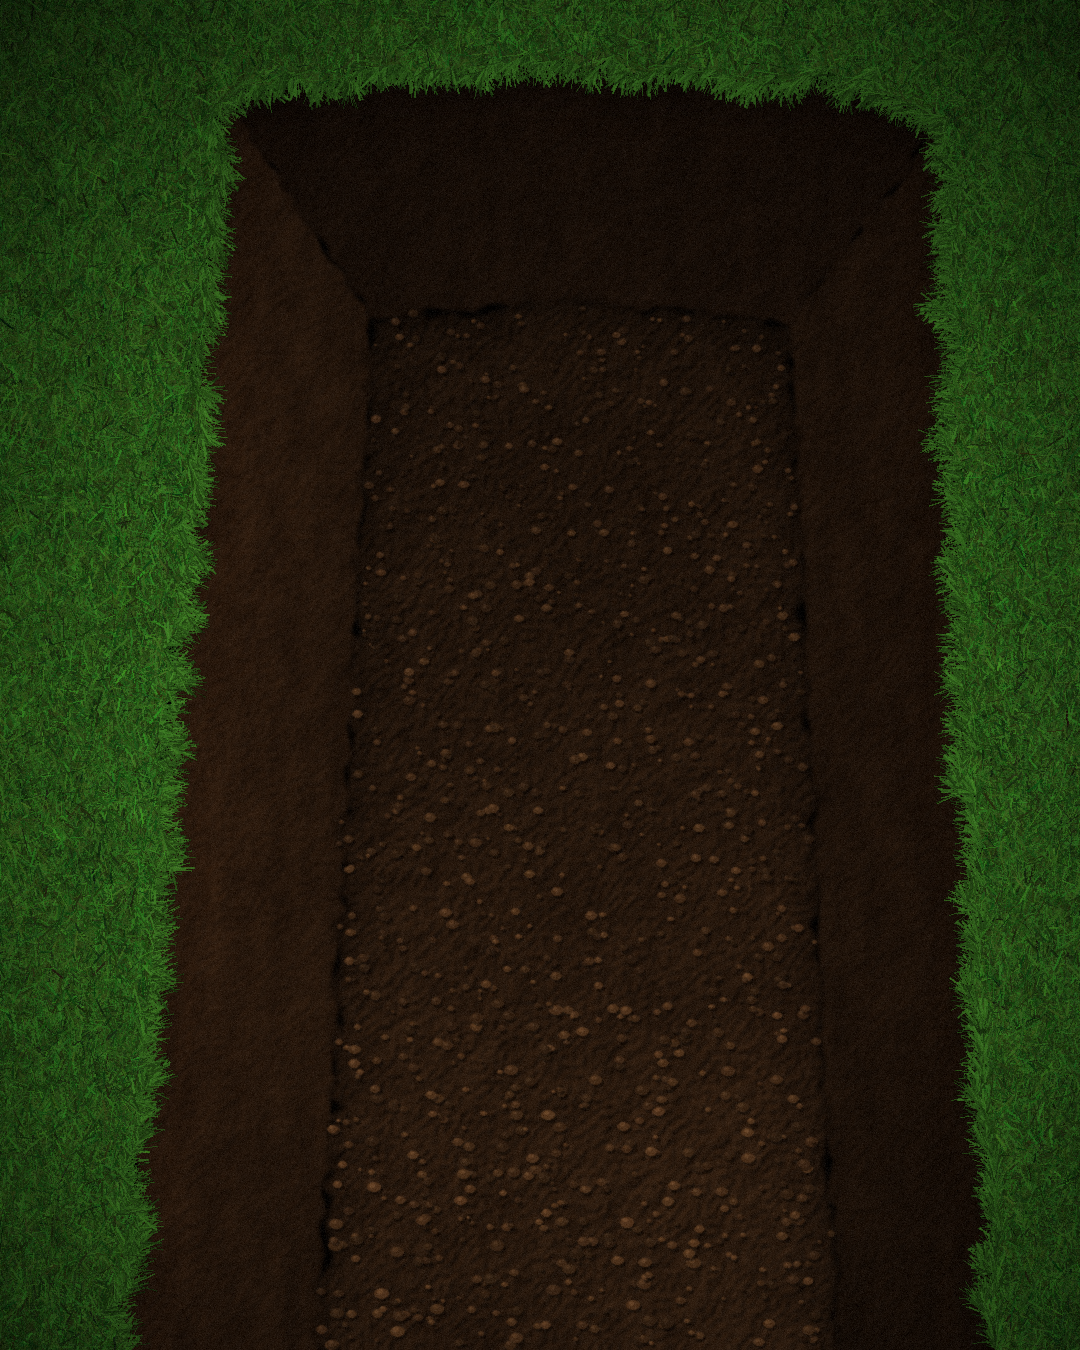
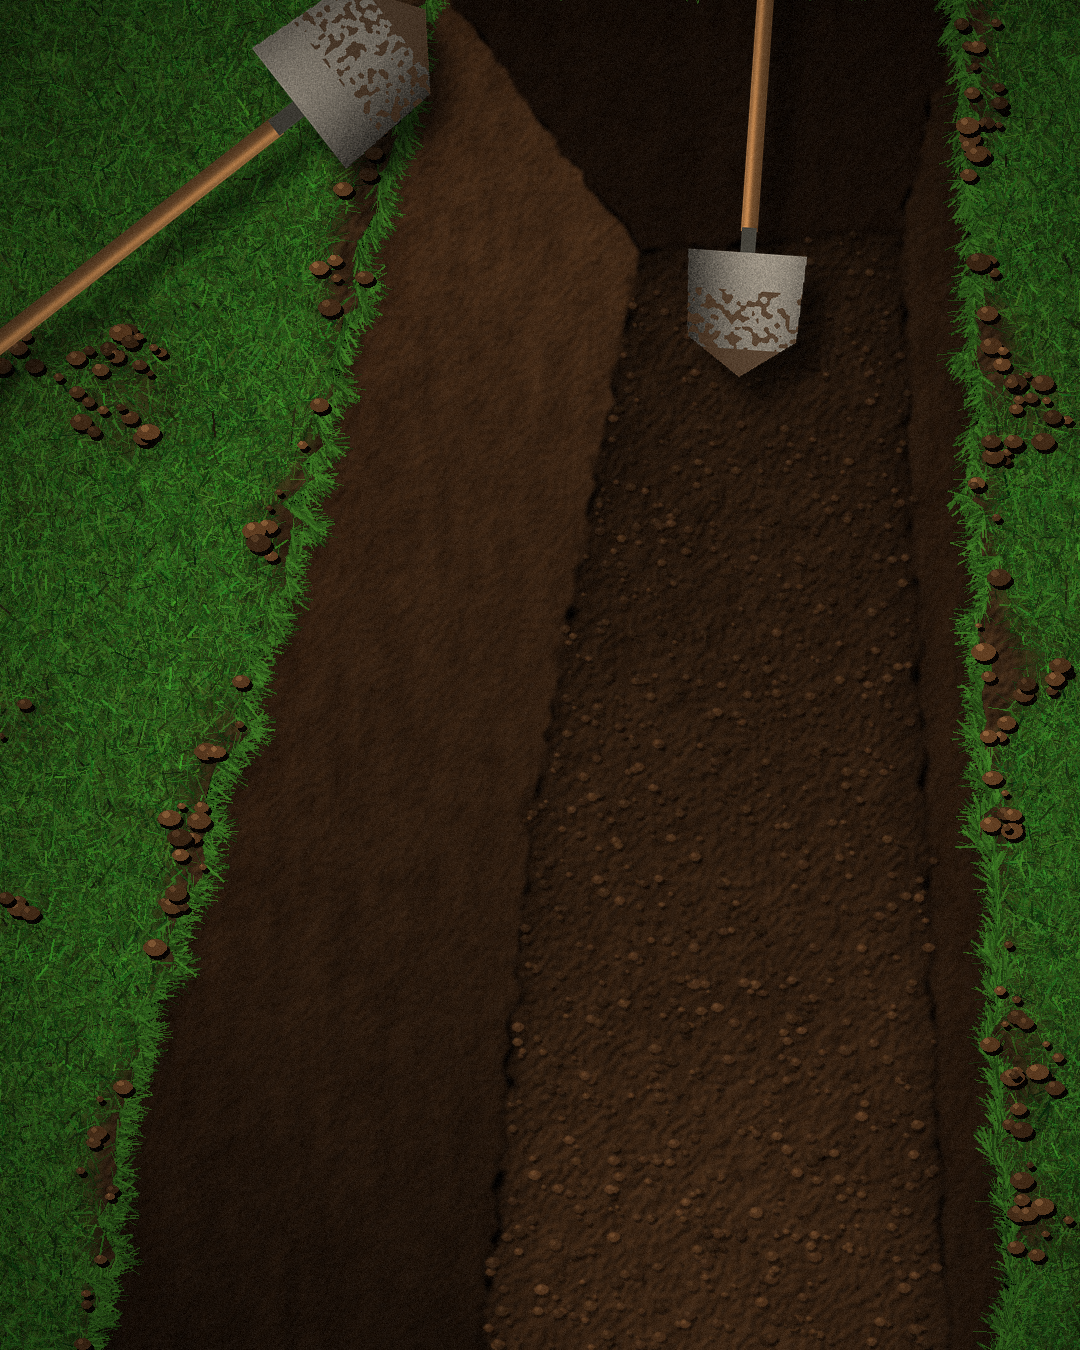
Remember carousel: the grave seen at an angle as in the owner's reference, muddy patchy grass, two shovels
Claude-Session: https://claude.ai/code/session_012WUx5AxZX2Tgox72zgHa7p

diff --git a/brag-quiz/remember_grave.py b/brag-quiz/remember_grave.py
@@ -36,13 +36,13 @@ def mask(poly, blur=0):
 def colorize(v, dark, light):
     v = v[..., None]; return np.array(dark) * (1 - v) + np.array(light) * v
 
-# the pit: its opening, the floor seen far below, the walls between them (the near end runs off the bottom of the frame)
-OPEN = [(222, 92), (520, 62), (860, 80), (944, 118), (996, 1350), (118, 1350)]
-FLOOR = [(372, 318), (560, 302), (790, 322), (838, 1350), (318, 1350)]
-LEFTW = [(222, 92), (372, 318), (318, 1350), (118, 1350)]
-RIGHTW = [(944, 118), (790, 322), (838, 1350), (996, 1350)]
-FARW = [(222, 92), (520, 62), (860, 80), (944, 118), (790, 322), (560, 302), (372, 318)]
-
+# the pit, seen from above at an angle (owner's reference): turf top left, the pit running off to the right and the bottom, its long side
+# wall lit and going down from the rim, the far wall at the top, the floor below
+OPEN = [(430, -30), (960, -30), (1010, 1380), (90, 1380), (120, 1120), (230, 760), (340, 360)]
+FLOOR = [(640, 250), (900, 232), (950, 1380), (480, 1380), (530, 820)]
+LEFTW = [(430, -30), (640, 250), (530, 820), (480, 1380), (90, 1380), (120, 1120), (230, 760), (340, 360)]
+RIGHTW = [(960, -30), (1010, 1380), (950, 1380), (900, 232)]
+FARW = [(430, -30), (960, -30), (900, 232), (640, 250)]
 def jag(poly, amp=7, step=14, seed=11):   # dug edges are never straight
     r = np.random.default_rng(seed); out = []
     for (x0, y0), (x1, y1) in zip(poly, poly[1:] + poly[:1]):
@@ -60,17 +60,17 @@ img = np.zeros((H, W, 3))
 # floor: loose, crumbly, lit from above, lighter towards us
 hf = 0.35 * base + 0.35 * fine + 0.3 * fine2
 sf = lit(hf, 9) * 0.75 + 0.25
-floor = colorize(np.clip(0.2 + 0.55 * hf, 0, 1), (30, 18, 10), (98, 66, 40)) * sf[..., None] * (0.55 + 0.45 * yy[..., None])
+floor = colorize(np.clip(0.2 + 0.55 * hf, 0, 1), (40, 25, 14), (120, 82, 50)) * sf[..., None] * (0.55 + 0.45 * yy[..., None])
 # walls: scraped in vertical strokes by the spade, darker deeper in, the right wall in shade
 hw = 0.4 * streak + 0.3 * fine + 0.2 * fine2 + 0.1 * base
 sw = lit(hw, 7) * 0.7 + 0.3
-wallL = colorize(np.clip(0.2 + 0.55 * hw, 0, 1), (34, 20, 11), (118, 78, 46)) * sw[..., None]
+wallL = colorize(np.clip(0.2 + 0.55 * hw, 0, 1), (52, 32, 18), (150, 102, 62)) * sw[..., None]
 wallR = wallL * 0.55
 xs = np.linspace(0, 1, W)[None, :] * np.ones((H, 1))
 farw = colorize(np.clip(0.2 + 0.5 * hw, 0, 1), (20, 12, 7), (70, 46, 28)) * sw[..., None] * 0.8
 mL, mR, mF, mFar = mask(LEFTW, 2), mask(RIGHTW, 2), mask(FLOOR, 3), mask(FARW, 2)
 img = floor * mF[..., None]
-img = img * (1 - mL[..., None]) + wallL * (0.5 + 0.5 * (1 - (xs * 2.2).clip(0, 1)))[..., None] * mL[..., None]
+img = img * (1 - mL[..., None]) + wallL * (0.95 - 0.55 * yy)[..., None] * mL[..., None]
 img = img * (1 - mR[..., None]) + wallR * mR[..., None]
 img = img * (1 - mFar[..., None]) + farw * mFar[..., None]
 # the floor in the walls' shadow along its edges (contact shadow), and dark where it meets the far wall
@@ -82,7 +82,7 @@ img = img * (1 - 0.55 * ao * mF)[..., None]
 # crumbs and clods on the floor: each lit from the top left, with its own shadow
 cr = Image.fromarray(np.clip(img, 0, 255).astype(np.uint8)); cd = ImageDraw.Draw(cr, "RGBA"); fl = Image.fromarray((mF * 255).astype(np.uint8))
 for _ in range(1400):
-    x, y = rng.uniform(300, 860), rng.uniform(300, 1350)
+    x, y = rng.uniform(470, 960), rng.uniform(220, 1350)
     if fl.getpixel((int(min(W - 1, x)), int(min(H - 1, y)))) < 200: continue
     s0 = rng.uniform(1.5, 6) * (0.6 + 0.6 * y / H); v = rng.uniform(0.5, 1.0) * (0.5 + 0.4 * y / H)
     cd.ellipse([x - s0 + 2, y - s0 * 0.7 + 3, x + s0 + 2, y + s0 * 0.7 + 3], fill=(10, 6, 3, 120))
@@ -93,14 +93,22 @@ img = np.asarray(cr.filter(ImageFilter.GaussianBlur(0.7)), float)
 mOpen = mask(OPEN)
 g0 = noise(60, seed=5); g1 = noise(8, octaves=3, seed=6)
 turf = colorize(np.clip(0.3 * g0 + 0.7 * g1, 0, 1), (22, 48, 14), (78, 120, 40))
+# the spoil from the dig: mud trodden into the grass along the rim and in patches, darker and wetter where it's thick
+near = np.asarray(Image.fromarray((mOpen * 255).astype(np.uint8)).filter(ImageFilter.GaussianBlur(55)), float) / 255
+mud = np.clip((near * 2.8 - 0.25) + (noise(90, seed=21) - 0.62) * 2.2, 0, 1) * (1 - mOpen)
+mud = np.clip(mud + np.clip((noise(110, seed=22) - 0.6) * 4, 0, 0.9), 0, 1) * (1 - mOpen)
+mudc = colorize(np.clip(0.3 * noise(30, seed=23) + 0.5 * fine + 0.2 * fine2, 0, 1), (34, 22, 12), (104, 74, 46)) * (lit(0.5 * fine + 0.5 * fine2, 8) * 0.6 + 0.4)[..., None]
+turf = turf * (1 - mud[..., None]) + mudc * mud[..., None]
 img = img * mOpen[..., None] + turf * (1 - mOpen[..., None])
+MUD = Image.fromarray((mud * 255).astype(np.uint8))
 im = Image.fromarray(np.clip(img, 0, 255).astype(np.uint8)).convert("RGBA")
 blades = Image.new("RGBA", (W, H), (0, 0, 0, 0)); d = ImageDraw.Draw(blades)
 inside = Image.fromarray((mOpen * 255).astype(np.uint8))
 for _ in range(230000):
     x, y = rng.uniform(-10, W + 10), rng.uniform(-10, H + 10)
-    if inside.getpixel((min(W - 1, max(0, int(x))), min(H - 1, max(0, int(y))))) > 128: continue
-    a = rng.normal(-1.57, 0.9); L = rng.uniform(6, 20); g = rng.uniform(0.4, 1.25)
+    px = (min(W - 1, max(0, int(x))), min(H - 1, max(0, int(y))))
+    if inside.getpixel(px) > 128 or rng.random() < MUD.getpixel(px) / 255 * 1.1: continue     # no grass where the mud lies
+    a = rng.normal(-1.57, 1.1); L = rng.uniform(5, 24); g = rng.uniform(0.35, 1.3) * (0.75 if rng.random() < 0.15 else 1)
     c = (int(np.clip(50 * g + rng.normal(0, 8), 0, 255)), int(np.clip(112 * g + rng.normal(0, 12), 0, 255)), int(np.clip(34 * g, 0, 255)), int(rng.uniform(150, 255)))
     d.line([(x, y), (x + L * np.cos(a), y + L * np.sin(a))], fill=c, width=1 if rng.random() < 0.7 else 2)
 # blades hanging over the rim, into the pit, and the rim's shadow on the walls
@@ -108,7 +116,7 @@ rim = []
 for (x0, y0), (x1, y1) in zip(OPEN, OPEN[1:] + OPEN[:1]):
     if y0 >= 1349 and y1 >= 1349: continue
     for t in np.linspace(0, 1, int(np.hypot(x1 - x0, y1 - y0) / 1.2)): rim.append((x0 + (x1 - x0) * t, y0 + (y1 - y0) * t))
-cx = sum(p[0] for p in OPEN) / len(OPEN); cy = 600
+cx, cy = 900, 700
 for x, y in rim:
     for _ in range(3):
         a = np.arctan2(cy - y, cx - x) + rng.normal(0, 0.6); L = rng.uniform(8, 26); g = rng.uniform(0.5, 1.2)
@@ -120,9 +128,46 @@ sh = np.asarray(shadow, float) / 255 * mOpen
 base_rgb = np.asarray(im.convert("RGB"), float) * (1 - 0.6 * sh)[..., None]
 im = Image.fromarray(np.clip(base_rgb, 0, 255).astype(np.uint8)).convert("RGBA")
 im = Image.alpha_composite(im, blades.filter(ImageFilter.GaussianBlur(0.4)))
+# clods of the spoil lying on the grass, then the two shovels: one dropped on the turf, one stuck upright in the floor of the pit
+cd = ImageDraw.Draw(im, "RGBA")
+for _ in range(2600):
+    x, y = rng.uniform(0, 1080), rng.uniform(0, 1350)
+    if MUD.getpixel((int(min(W - 1, x)), int(min(H - 1, y)))) < 90: continue
+    s0 = rng.uniform(3, 12); v = rng.uniform(0.6, 1.1)
+    cd.ellipse([x - s0 + 3, y - s0 * .7 + 4, x + s0 + 3, y + s0 * .7 + 4], fill=(8, 5, 2, 130))
+    cd.ellipse([x - s0, y - s0 * .7, x + s0, y + s0 * .7], fill=(int(92 * v), int(62 * v), int(36 * v), 255))
+    cd.ellipse([x - s0 * .6, y - s0 * .6, x, y - s0 * .1], fill=(int(130 * v), int(92 * v), int(58 * v), 150))
+def shovel(L, angle, at, blade_down=True, scale=1.0):
+    """a long-handled shovel drawn on its own layer, rotated and placed: wood with a highlight, a dark D-grip, a steel blade with dirt on it"""
+    w, h = int(300 * scale), int(L * scale) + int(300 * scale); lay = Image.new("RGBA", (w, h), (0, 0, 0, 0)); g = ImageDraw.Draw(lay)
+    cx = w // 2; hw = max(7, int(13 * scale)); top = int(110 * scale); bot = int(L * scale)
+    for i in range(-hw, hw + 1):                                     # the handle, lit along one side
+        t = (i + hw) / (2 * hw); c = int(150 + 70 * np.exp(-((t - 0.3) / 0.18) ** 2) - 60 * t)
+        g.line([(cx + i, top), (cx + i, bot)], fill=(c, int(c * 0.72), int(c * 0.45), 255))
+    gr = int(46 * scale); g.rounded_rectangle([cx - gr, top - int(70 * scale), cx + gr, top + int(6 * scale)], radius=int(18 * scale), outline=(28, 28, 28, 255), width=max(6, int(12 * scale)))
+    g.rectangle([cx - int(12 * scale), bot - int(6 * scale), cx + int(12 * scale), bot + int(40 * scale)], fill=(70, 70, 66, 255))
+    bw, bh = int(96 * scale), int(200 * scale); y0 = bot + int(36 * scale)
+    blade = [(cx - bw, y0), (cx + bw, y0), (cx + int(bw * .92), y0 + int(bh * .7)), (cx, y0 + bh), (cx - int(bw * .92), y0 + int(bh * .7))]
+    bm = Image.new("L", lay.size, 0); ImageDraw.Draw(bm).polygon(blade, fill=255)
+    yy2, xx2 = np.mgrid[0:lay.size[1], 0:lay.size[0]]
+    steel = 92 + 62 * np.cos((xx2 - cx) / bw * 1.6 - 0.5) - 30 * ((yy2 - y0) / bh).clip(0, 1) + rng.normal(0, 9, xx2.shape)
+    dirt = ((noise_small(lay.size, 0.2) > 0.6) & (((yy2 - y0) / bh) > 0.3)) | (((yy2 - y0) / bh) > 0.78)
+    rgb = np.dstack([steel, steel * 0.98, steel * 0.94]); rgb[dirt] = rgb[dirt] * 0.25 + np.array([70, 48, 30]) * 0.75
+    bl = Image.fromarray(np.clip(rgb, 0, 255).astype(np.uint8)).convert("RGBA"); bl.putalpha(bm)
+    lay = Image.alpha_composite(lay, bl)
+    lay = lay.rotate(angle, resample=Image.BICUBIC, expand=True)
+    sh = Image.new("RGBA", lay.size, (0, 0, 0, 0)); sh.putalpha(lay.getchannel("A").point(lambda v: v * 0.55)); sh = sh.filter(ImageFilter.GaussianBlur(10))
+    return lay, sh
+def noise_small(size, f):
+    gw, gh = max(2, int(size[0] * f)), max(2, int(size[1] * f))
+    return np.asarray(Image.fromarray((rng.random((gh, gw)) * 255).astype(np.uint8)).resize(size, Image.BICUBIC), float) / 255
+def place(lay, sh, cx, cy):                                           # the layer's centre at (cx, cy), its shadow down and right of it
+    x, y = int(cx - lay.size[0] / 2), int(cy - lay.size[1] / 2); im.alpha_composite(sh, (x + 22, y + 26)); im.alpha_composite(lay, (x, y))
+lay, sh = shovel(640, 128, None, scale=0.8); place(lay, sh, 170, 210)   # dropped on the grass, top left: blade up by the rim, grip down to the left
+lay, sh = shovel(820, -4, None, scale=0.62); place(lay, sh, 760, 70)   # upright in the floor of the pit, its handle running off the top
 # grade: vignette, a touch of warmth, film grain
 a = np.asarray(im.convert("RGB"), float)
-yv, xv = np.mgrid[0:H, 0:W]; r = np.hypot((xv - W / 2) / (W * 0.62), (yv - H * 0.55) / (H * 0.62))
+yv, xv = np.mgrid[0:H, 0:W]; r = np.hypot((xv - W * 0.55) / (W * 0.7), (yv - H * 0.55) / (H * 0.7))
 a *= np.clip(1.15 - 0.55 * r ** 2, 0.35, 1)[..., None]
 a = a * np.array([1.04, 1.0, 0.94]) + rng.normal(0, 4.5, (H, W, 1))
 Image.fromarray(np.clip(a, 0, 255).astype(np.uint8)).save(OUT)
